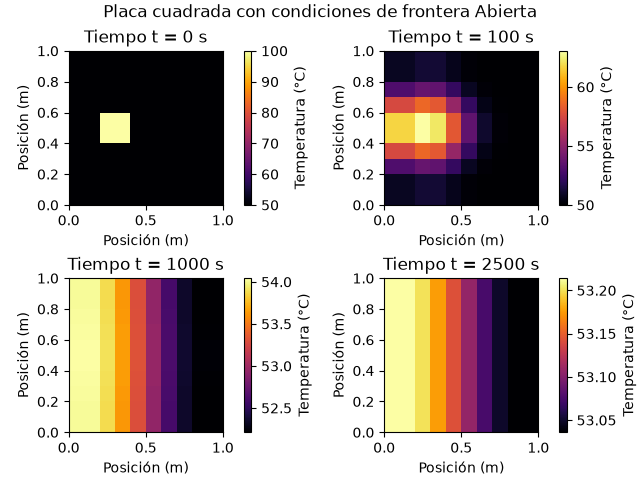
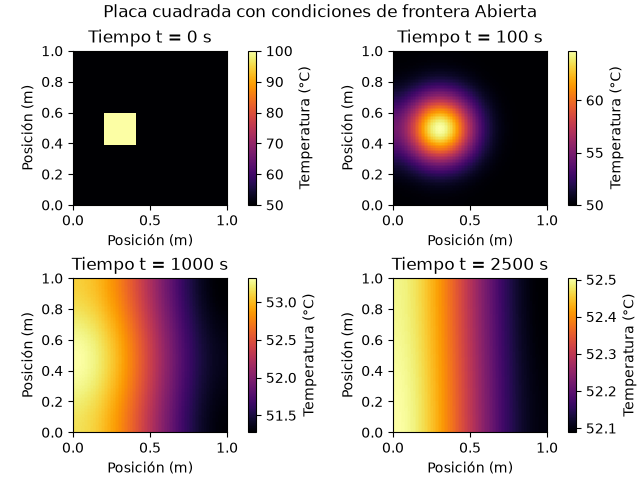
Generalized the simulation for any grid NxN

diff --git a/S9/S9C1/ParraCristian_S9C1_EDP.cpp b/S9/S9C1/ParraCristian_S9C1_EDP.cpp
@@ -11,8 +11,8 @@
 // Condiciones iniciales
 const double V = 1e-4; // Coeficiente de difusión
 const int L = 1;
-const int N = 10; // Cantidad de puntos en una dimensión de la red (10X10)
-const int T = 130; // Pasos temporales
+const int N = 100; // Cantidad de puntos en una dimensión de la red (10X10)
+const int T = 13000; // Pasos temporales
 double t_final = 26000.0;
 
 // Tomando delta_y igual a delta_x se reduce la complejidad del código.
@@ -25,9 +25,17 @@ std::array<std::array<double, N>, N> T_p; // T presente
 
 void guardado(int condicion_frontera){
     // Condiciones iniciales
+    int arriba = 0.4*N;
+    int abajo = 0.2*N;
+    int derecha = 0.6*N;
+    int izquierda = 0.4*N;
+    std::cout << arriba << std::endl;
+    std::cout << abajo << std::endl;
+    std::cout << derecha << std::endl;
+    std::cout << izquierda << std::endl;
     for (int i = 0; i<N; i++){
         for (int k = 0; k<N; k++){
-            if (k <= 3 && k >=2 && i<= 5 && i>=4){
+            if (k <= arriba && k >= abajo && i <= derecha && i>= izquierda){
                 T_p[i][k] = 100.0;
             }
             else{
@@ -145,7 +153,7 @@ void guardado(int condicion_frontera){
         }
         
         // Guardar algunos arreglos cada 100 segundos en 'C2_EDP.dat'
-        if (j%5 == 0){
+        if (j%500 == 0){
             for(int p=0; p<N;p++){
                 for (int q=0; q<N;q++){
                     outfile << T_p[p][q] << ",";

diff --git a/S9/S9C1/PLOTS_CristianParra_S9C1_EDP.py b/S9/S9C1/PLOTS_CristianParra_S9C1_EDP.py
@@ -5,8 +5,8 @@ import matplotlib.pyplot as plt
 # Parámetros del modelo
 V = 0.0001
 L = 1
-N = 10
-T = 130
+N = 100
+T = 13000
 delta_x = 0.1
 delta_t = 20
 
